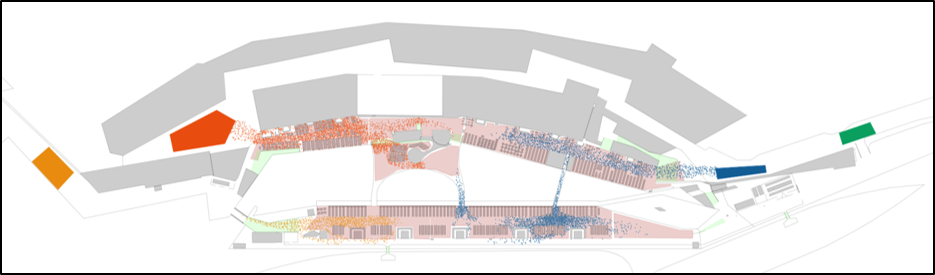
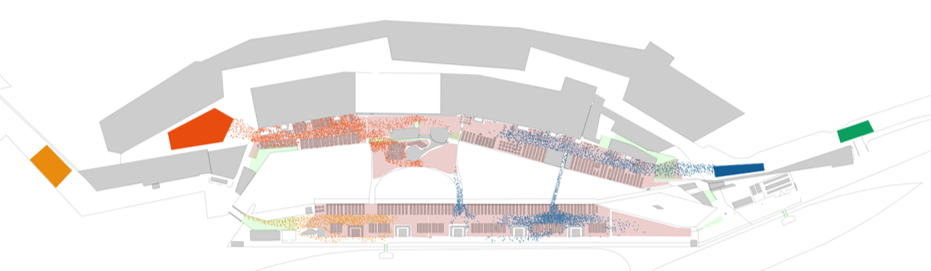
referenzen: zweiplan

diff --git a/template/accu-rate.css b/template/accu-rate.css
@@ -150,6 +150,13 @@ body {
 img,video,iframe {
     max-width: 100%;
 }
+
+img.center {
+    display: block;
+    margin-right: auto;
+    margin-left: auto;
+}
+
 @media (min-width: 768px), print {
     img.float-left {
         float: left;

diff --git a/source/referenzen.md b/source/referenzen.md
@@ -1,23 +1,31 @@
 ![](/img/accurate-bild-start.jpg) {.fancyheader-img}
 # <br /> *Referenzen* {.fancyheader}
 
+Hier finden Sie einige Beispiele unserer Projekte.
+Selbstverständlich beantworten gerne Ihre Fragen!
+Bitte [kontaktieren](kontakt) Sie uns.
 
 ## Firmen-Großveranstaltung in einem Kreuzfahrthafen
 
 Die Event-Agentur [Zweiplan DAS PRODUKTIONSBÜRO GmbH](http://www.zweiplan.de/) realisierte eine Firmen&shy;veranstaltung in einem Kreuzfahrthafen für 7.000 Gäste.
 accu:rate wurde beauftragt, die im Falle einer Entfluchtung geplanten Maßnahmen auf ihre Wirksamkeit zu überprüfen.
 
-![Kreuzfahrthafen Übersichtsplan mit Zoom-Ausschnitt](img/referenzen/zweiplan-uebersicht-zoom-web.png)
-
+![Kreuzfahrthafen Übersichtsplan mit Zoom-Ausschnitt](img/referenzen/zweiplan-uebersicht-zoom-web.png)  
 Der Übersichtsplan des Hafens inklusive den vier anliegenden [AIDA](https://www.aida.de/) Luxus-Linern.
 Der vergrößerte Ausschnitt zeigt den hohen Detailgrad mit einzelnen Bistrotischen und -stühlen.
 
+![Kreuzfahrthafen Übersicht Agenten nach Ziel eingefärbt](img/referenzen/zweiplan-nach-ziel.png)
+Ein Screenshot der 2D-Visualisierung zeigt die Simulation eines Entfluchtungsszenarios.
+In diesem Beispiel sind die Agenten nach ihrem jeweiligen Ziel eingefärbt.
+Dies erleichtert das Verständnis und die Anpassung des Räumungsplanes.
 
-![](img/referenzen/zweiplan-detail-stauung.png)
-![](img/referenzen/zweiplan-dichte-ueber-zeit.png)
-![](img/referenzen/zweiplan-nach-ziel.png)
-![](img/referenzen/zweiplan-uebersicht.png)
-![](img/referenzen/zweiplan-uebersicht-zoom.png)
+![Kreuzfahrthafen mikroskopische Simulation Detail Stauung](img/referenzen/zweiplan-detail-stauung.png)  
+Der Ausschnitt zeigt eine Stauung vor einer als Fluchtweg genutzten Brücke.
+Die farbliche Kodierung visualisiert die Dichte, das heißt die Anzahl Personen pro Quadratmeter, hier berechnet mittels [Voronoi-Diagramm](https://de.wikipedia.org/wiki/Voronoi-Diagramm).
+
+![Kreuzfahrthafen mikroskopische Simulation Dichteauswertung über Zeit](img/referenzen/zweiplan-dichte-ueber-zeit.png) {.center}  
+Dieses Diagramm lässt erkennen, dass im oben gezeigten Abschnitt eine unverändert hohe Dichte über eine lange Zeit fortbesteht.
+Grafiken wie diese erlauben - auch ohne Video - Aussagen über den zeitlichen Verlauf der simulierten Entfluchtungsmaßnahme in den gedruckten Report aufzunehmen.
 
 
 ## Entfluchtungs-Simulation eines Festzeltes
